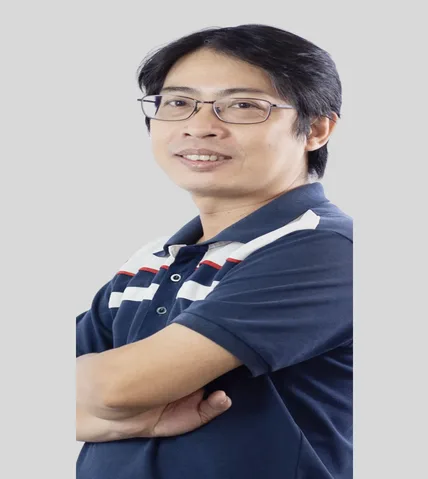
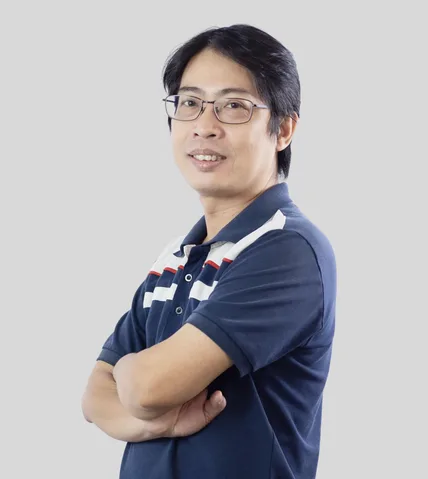
fix(services): bake the Linh Ngo portrait with the Figma stretch
Figma stretches the 1024x1024 file into its 277x464.106 box (37:62) at
x 76, y 15. The user's export of the layer matches that stretch (mean
difference 1.61 of 255). The crop and the 1/1.13 estimate were wrong.

Set ASSET_VERSION to 22. The 2 files are in the staging bucket.

Changed region(s): [[0.1519, 0.0292, 0.8505, 1.0], [0.486, 0.7015, 0.5164, 0.7307]]

diff --git a/assets.ts b/assets.ts
@@ -17,7 +17,7 @@ const R2 = R2_STAGING;
 // Cache-busting version. The R2 public dev URL sends no Cache-Control header, so
 // browsers cache assets heuristically and serve stale copies after a re-upload.
 // Bump ASSET_VERSION whenever you replace an asset in the bucket to force a refetch.
-const ASSET_VERSION = '21';
+const ASSET_VERSION = '22';
 const a = (path: string) => `${R2}${path}?v=${ASSET_VERSION}`;
 
 /** One `srcset` candidate: a URL and the intrinsic width it was encoded at. */

diff --git a/.claude/figma-adapter.md b/.claude/figma-adapter.md
@@ -1173,8 +1173,10 @@ home `Contact` with the hub blurb (3257:2599) and no offices.
     427x479 box, which narrows it by 1.12. So the `unstretch` rule (use the file's own ratio) undid Figma's correction
     for Van, Tien (D&D), Tuan (IT Ops) and Nga (People), and they looked narrow. They now follow Figma's geometry. Their
     heads measure about 1.03 width to height, against 1.04 for the Software Tuan.
-    - Linh Ngo's IT Ops file is from the same 1024x1024 set, but Figma crops it (no stretch), so Figma shows it wide
-      too. The file is narrowed by 1/1.13 (the factor measured on Tuan) before the crop. This is an estimate.
+    - Linh Ngo (IT Ops): Figma stretches the 1024x1024 file into its 277x464.106 box (37:62) at x 76, y 15, a
+      1.6755 squeeze. The first bake used a crop, and the second a 1/1.13 estimate. Both were wrong. The user's
+      277x464 export of the layer matches the stretch (mean difference 1.61 of 255, against 53.88 for the crop). The
+      file now follows the stretch. `ASSET_VERSION` is 22 for this re-upload (2 files).
     - All other portraits already follow Figma at the file's own ratio. Guillaume's file is 0.957, and Figma draws
       0.956.
     - `ASSET_VERSION` is 21 for this upload (10 files).
